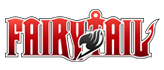
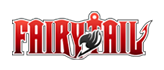
a

diff --git a/tad/effect/khung-lq/index.html b/tad/effect/khung-lq/index.html
@@ -54,7 +54,7 @@
 
                 var a3 = new Image();
             a3.crossOrigin = "Anonymous";
-            a3.src = "./bacskin/naruto.png";
+            a3.src = "./bacskin/fairytail.png";
             a3.onload = function () {
 
 
